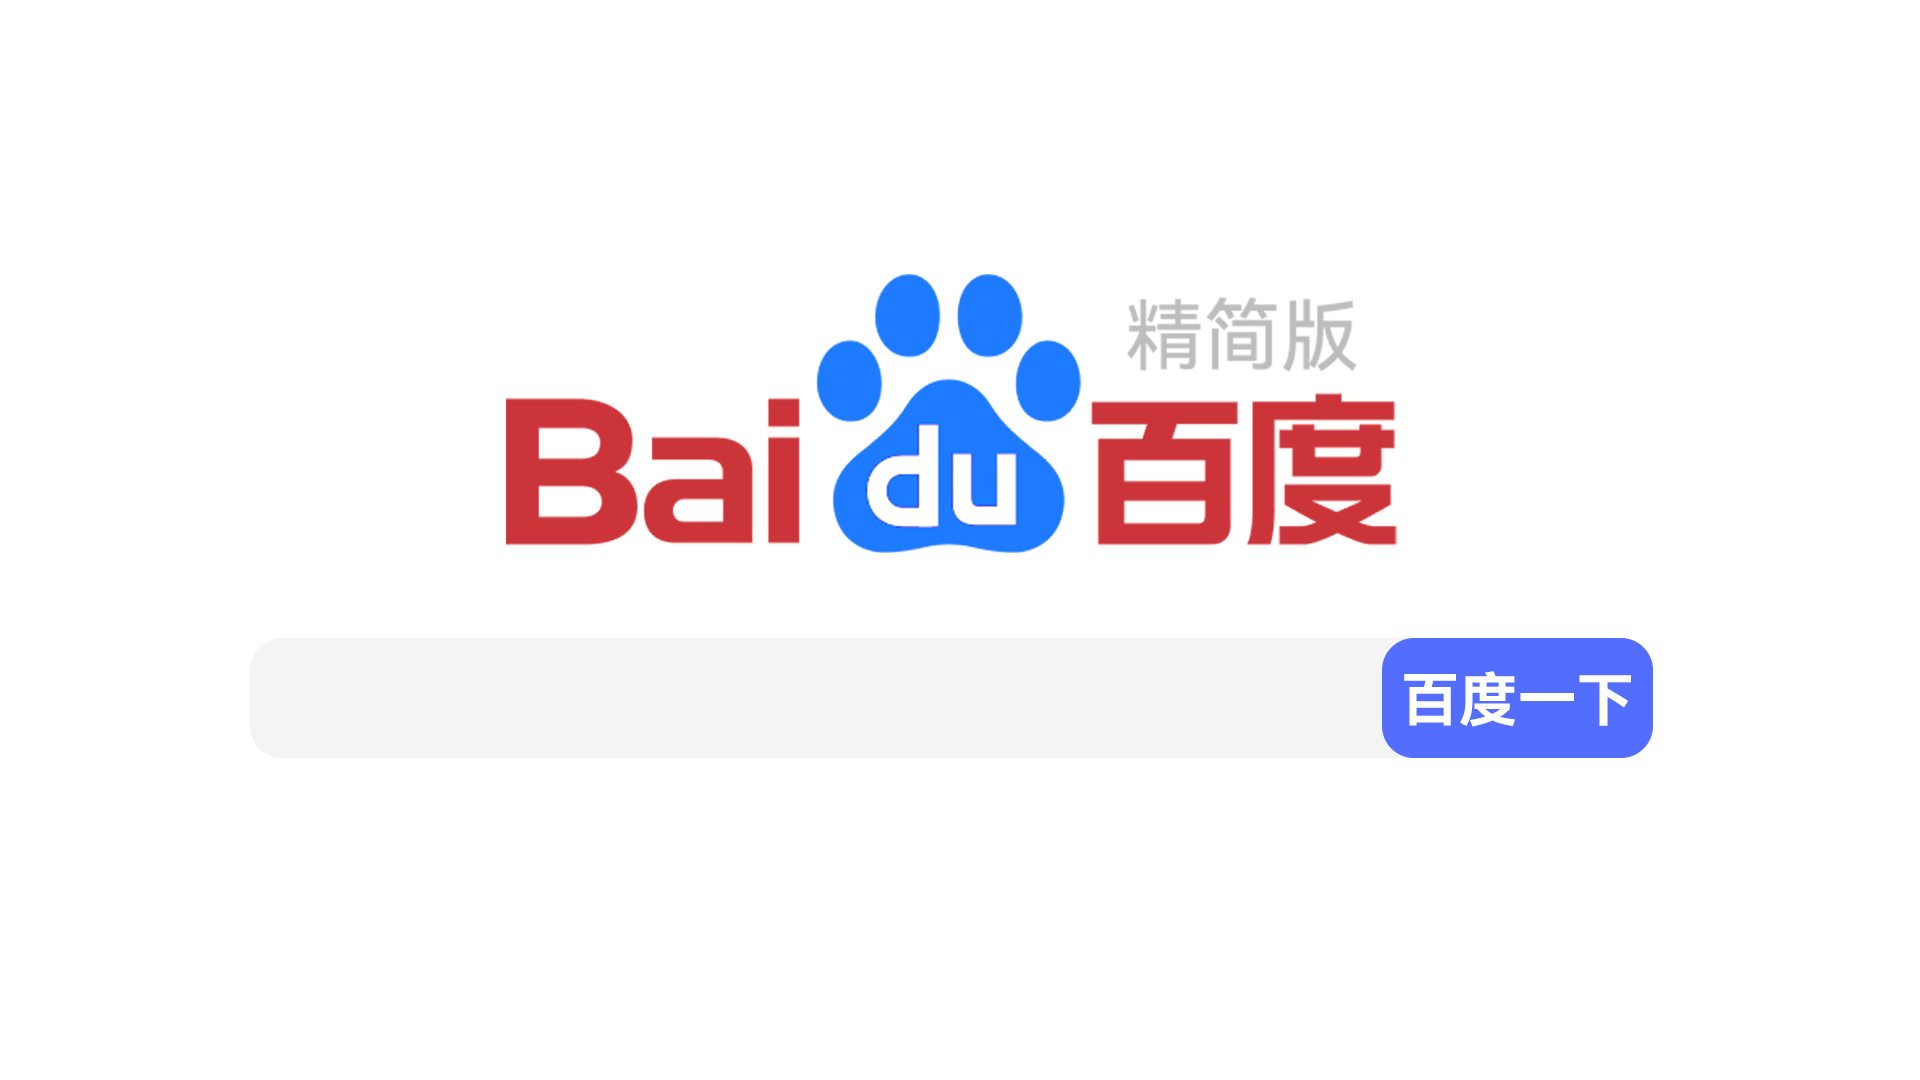
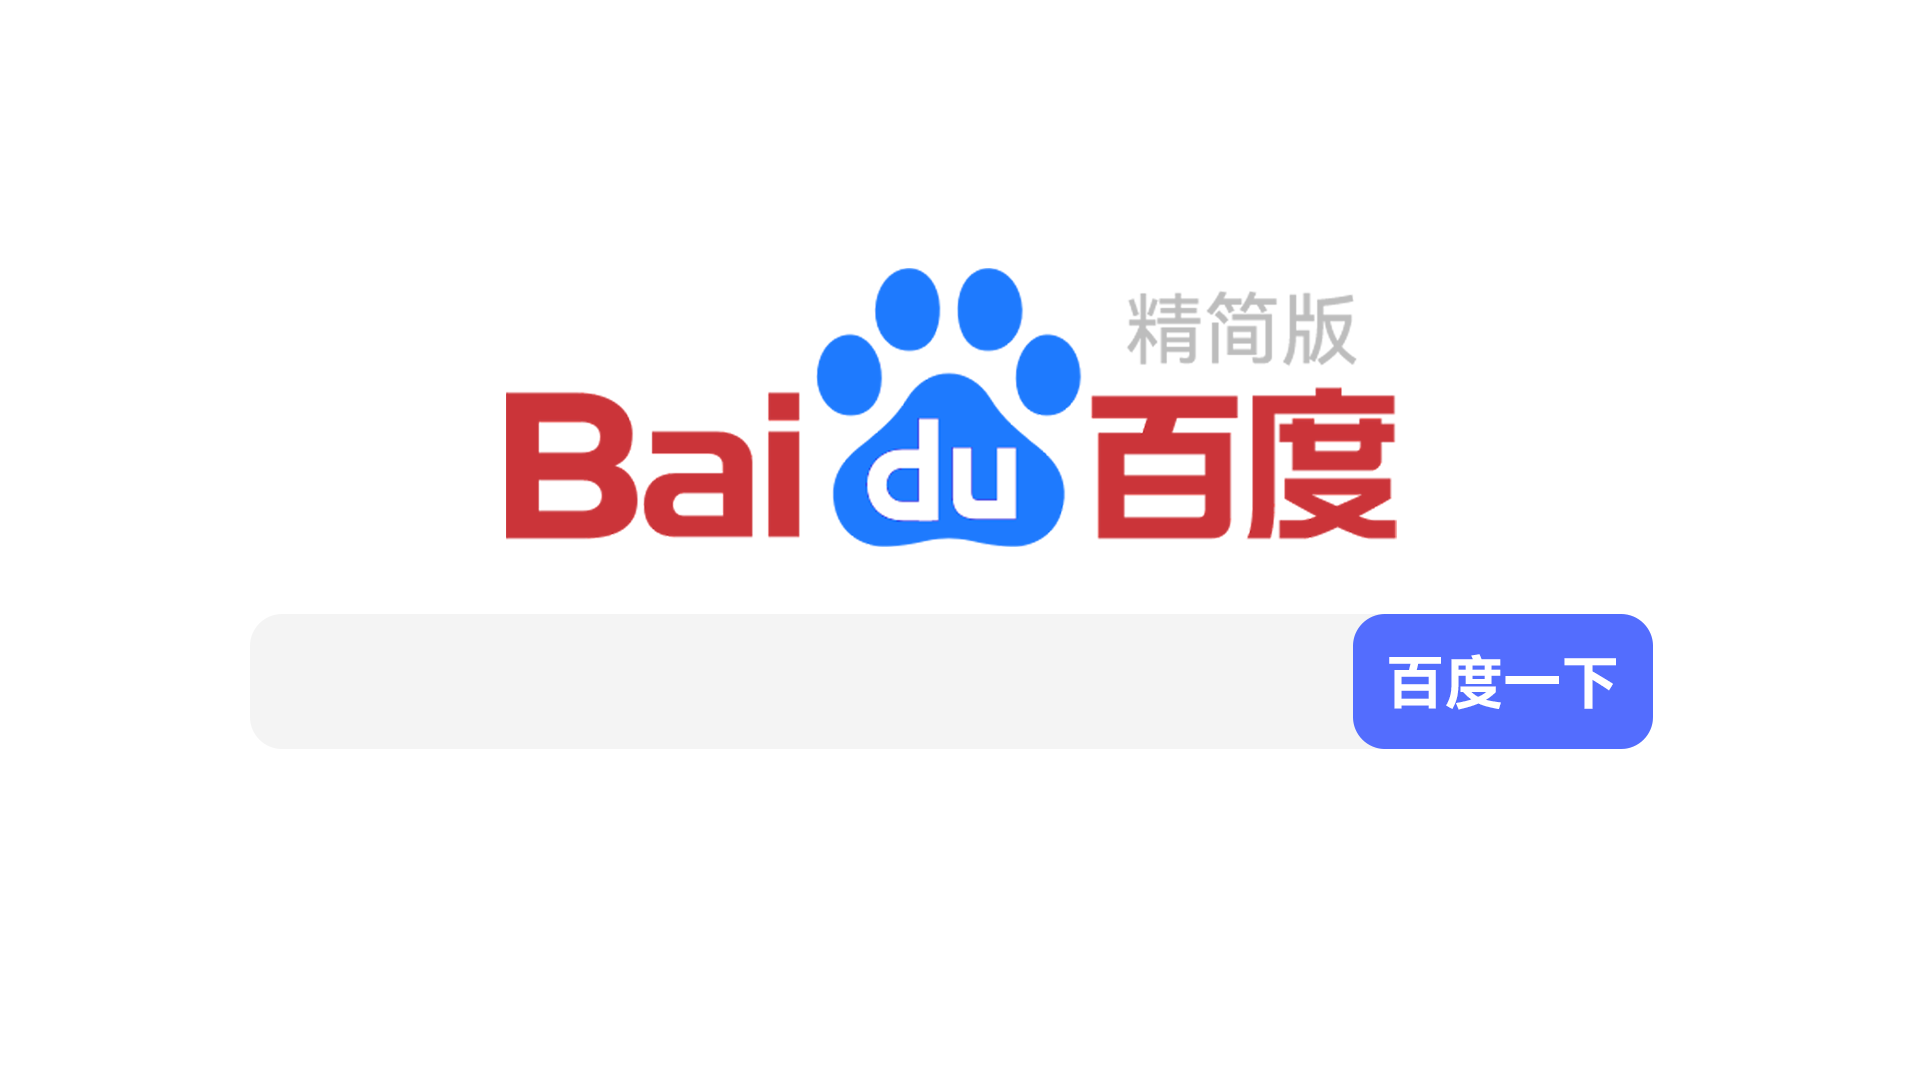
新增友联，更新百度lite

diff --git a/js/index.js b/js/index.js
@@ -1,27 +1,27 @@
 function addApps(apps) {
-    mainListObj = $$("#mainlist");
-    for (groupIndex = 0; groupIndex < apps.length; groupIndex++) {
-        var group = apps[groupIndex];
-        var items = group.items;
-        mainListObj.append('<div class="mdui-panel-item mdui-panel-item-open">\
+  mainListObj = $$("#mainlist");
+  for (groupIndex = 0; groupIndex < apps.length; groupIndex++) {
+    var group = apps[groupIndex];
+    var items = group.items;
+    mainListObj.append('<div class="mdui-panel-item mdui-panel-item-open">\
           <div class="mdui-panel-item-header mdui-ripple mdui-p-x-2">\
             <div class="mdui-panel-item-title">' + group.name + '</div>\
             <i class="mdui-panel-item-arrow mdui-icon material-icons">keyboard_arrow_down</i>\
           </div>\
           <div class="mdui-panel-item-body mdui-p-x-2">\
             <div id="' + group.id + '" \
-              class="mdui-row-xs-1 mdui-row-sm-2 mdui-row-md-3"></div>\
+              class="mdui-row-xs-1 mdui-row-sm-2 mdui-row-md-3 mdui-row-lg-4"></div>\
           </div>\
         </div>');
 
-        var itemsObj = $$("#" + group.id);
-        for (itemIndex = 0; itemIndex < items.length; itemIndex++) {
-            var content = items[itemIndex];
-            itemsObj.append('<div class="mdui-col mdui-p-a-1">\
+    var itemsObj = $$("#" + group.id);
+    for (itemIndex = 0; itemIndex < items.length; itemIndex++) {
+      var content = items[itemIndex];
+      itemsObj.append('<div class="mdui-col mdui-p-a-1">\
             <a href="'+ content.src + '" target="_blank">\
               <div class="jesse205-card-outlined jesse205-hoverable jesse205-shadow-transition mdui-card mdui-ripple">\
                 <div class="mdui-card-media">\
-                  <img src="'+ content.image + '" alt="' + content.name + '" draggable="false" style="aspect-ratio: 16/9;" />\
+                  <img class="card-image" src="'+ content.image + '" alt="' + content.name + '" draggable="false" />\
                   <div class="jesse205-card-media-covered-light mdui-card-media-covered mdui-card-media-covered-transparent">\
                     <div class="mdui-card-primary">\
                       <div class="mdui-card-primary-title">'+ content.name + '</div>\
@@ -32,27 +32,37 @@ function addApps(apps) {
               </div>\
             </a>\
           </div>')
-        }
-
     }
-    mainListObj.mutation();
+
+  }
+  mainListObj.mutation();
 }
 function addConfig(config) {
-    var menus = config.menus;
-    
-    var menusObj = $$("#menus");
-    var moreMenuObj = $$("#menu-more");
-    initMenu(menus, menusObj, moreMenuObj);
+  var menus = config.menus;
+  var links = config.links;
+
+  var menusObj = $$("#menus");
+  var moreMenuObj = $$("#menu-more");
+  var linksObj = $$("#links");
+
+  initMenu(menus, menusObj, moreMenuObj);
+
+  for (index = 0; index < links.length; index++) {
+    var content = links[index];
+    linksObj.append('<a class="mdui-btn mdui-ripple jesse205-btn-outlined link-btn jesse205-hoverable" href="'+ content.href + '"\
+    target="_blank">'+content.name+'\
+  </a>')
+  }
 }
 $(document).ready(function () {
-    $.getJSON("/api/applications.json", function (data) {
-        addApps(data);
-    });
-    $.getJSON("/api/index.json", function (data) {
-        addConfig(data);
-    });
-    $(window).scroll(function () {
-        var appbar = $("#appbar");
-        scrollShadowListener(appbar);
-    });
+  $.getJSON("/api/applications.json", function (data) {
+    addApps(data);
+  });
+  $.getJSON("/api/index.json", function (data) {
+    addConfig(data);
+  });
+  $(window).scroll(function () {
+    var appbar = $("#appbar");
+    scrollShadowListener(appbar);
+  });
 });

diff --git a/index.html b/index.html
@@ -29,7 +29,8 @@
   <script src="js/index.js"></script>
 </head>
 
-<body class="mdui-appbar-with-toolbar mdui-theme-primary-indigo mdui-theme-accent-indigo jesse205-theme-layout-cardDesign mdui-theme-layout-auto">
+<body
+  class="mdui-appbar-with-toolbar mdui-theme-primary-indigo mdui-theme-accent-indigo jesse205-theme-layout-cardDesign mdui-theme-layout-auto">
   <!-- 标题栏 -->
   <div id="appbar" class="mdui-appbar jesse205-shadow-transition mdui-appbar-fixed mdui-shadow-0">
     <div class="mdui-toolbar">
@@ -37,7 +38,8 @@
       <div class="mdui-toolbar-spacer"></div>
       <div id="menus" class="jesse205-toolbar-menusSpace">
       </div>
-      <a class="mdui-btn mdui-btn-icon mdui-hidden-sm-up" mdui-menu="{target: '#menu-more'}" mdui-tooltip="{'content':'更多选项'}">
+      <a class="mdui-btn mdui-btn-icon mdui-hidden-sm-up" mdui-menu="{target: '#menu-more'}"
+        mdui-tooltip="{'content':'更多选项'}">
         <i class="mdui-icon material-icons">more_vert</i>
       </a>
       <ul class="mdui-menu" id="menu-more">
@@ -46,10 +48,22 @@
   </div>
   <div class="mdui-container">
     <!-- 可扩展面板 -->
-    <div id="mainlist" class="mdui-panel mdui-panel-gapless mdui-m-y-1 jesse205-card-outlined"
-      mdui-panel="{accordion: false}">
+    <div id="mainlist" class="panel mdui-panel mdui-panel-gapless jesse205-card-outlined" mdui-panel>
     </div>
-  </div>
+
+    <div class="panel mdui-panel mdui-panel-gapless jesse205-card-outlined" mdui-panel>
+      <div class="mdui-panel-item mdui-panel-item-open">
+        <div class="mdui-panel-item-header mdui-ripple mdui-p-x-2">
+          <div class="mdui-panel-item-title">友情链接</div>
+          <i class="mdui-panel-item-arrow mdui-icon material-icons">keyboard_arrow_down</i>
+        </div>
+        <div class="mdui-panel-item-body mdui-p-x-1">
+          <div id="links" class="links">
+          </div>
+        </div>
+      </div>
+    </div>
+
 </body>
 
 </html>

diff --git a/baiduhomelite/index.html b/baiduhomelite/index.html
@@ -17,7 +17,7 @@
 	<meta name="theme-color" content="#ffffff">
 
 	<link rel="manifest" href="manifest.json">
-	<title>百度一下 Lite</title>
+	<title>百度一下</title>
 	<meta name="theme-color" content="black" />
 	<script type="text/javascript">
 		function search() {
@@ -61,7 +61,7 @@
 		}
 
 		.search_button {
-			width: 90px;
+			width: 120px;
 			height: 40px;
 			color: #FFFFFF;
 			font-size: 16px;
@@ -71,7 +71,6 @@
 			background-color: #536DFE;
 			padding: 0 12px;
 			transition: box-shadow .25s cubic-bezier(.4, .2, 0, 1);
-			box-sizing:content-box;
 		}
 
 		.search_button:hover:active {

diff --git a/css/index.css b/css/index.css
@@ -1,0 +1,18 @@
+.links {
+    font-size: 0;
+}
+
+.link-btn {
+    border-radius: 18px;
+    margin: 8px;
+    text-transform: none;
+}
+
+.card-image {
+    aspect-ratio: 16/9;
+}
+
+.panel {
+    margin-top: 16px;
+    margin-bottom: 16px;
+}

diff --git a/css/jesse205.css b/css/jesse205.css
@@ -35,7 +35,7 @@ body {
 
 .mdui-panel-item-open>.mdui-panel-item-header {
     height: 48px;
-    border-radius: 8px;
+    border-radius: 7px;
 }
 
 .mdui-panel-item-arrow {
